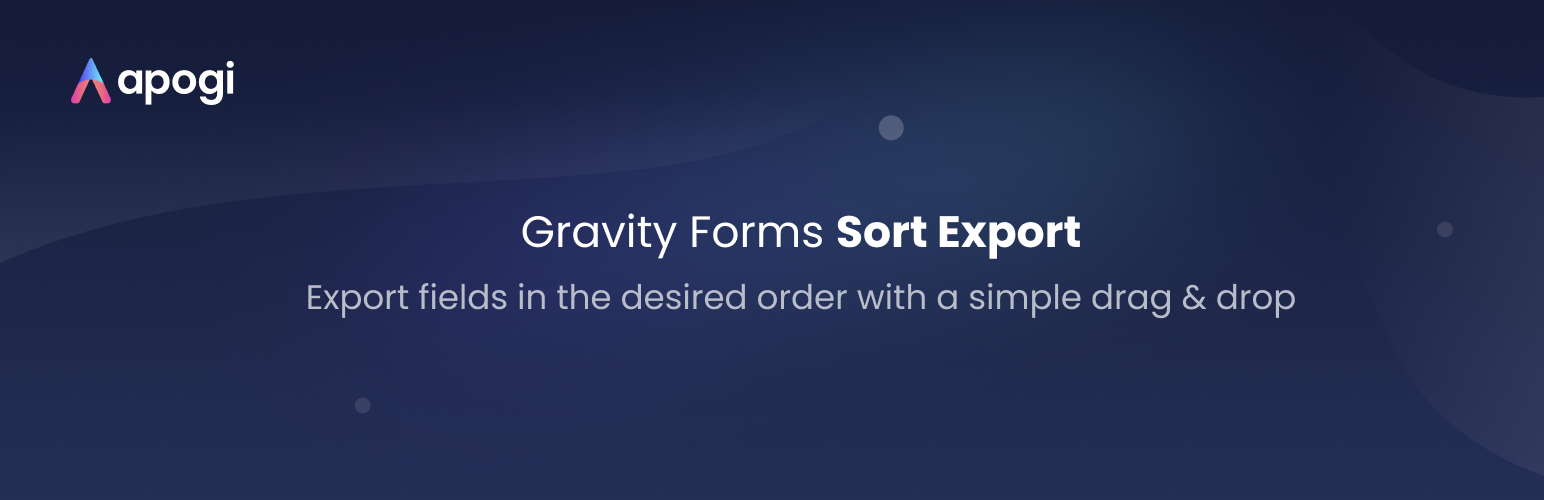
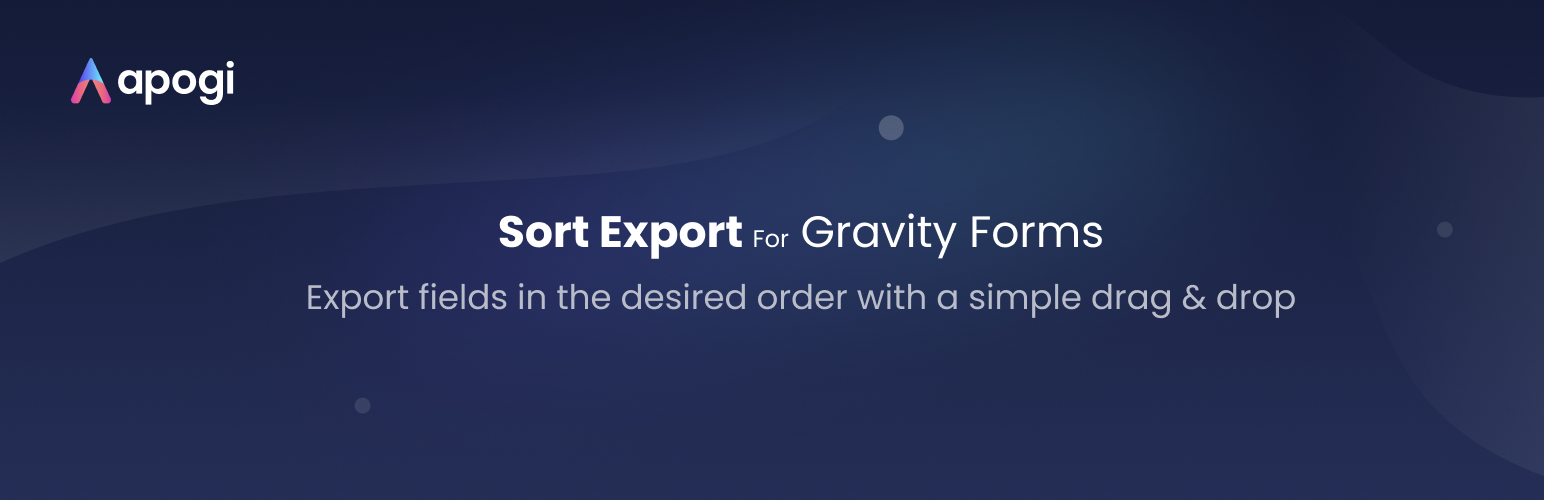
Renamed

Changed region(s): [[0.3109, 0.42, 0.715, 0.51]]

diff --git a/gf-sort-export.php b/gf-sort-export.php
@@ -1,6 +1,6 @@
 <?php
 /**
- * Plugin Name:     Gravity Forms Sort Export
+ * Plugin Name:     Sort Export for Gravity Forms
  * Description:     Control the order of the fields during export
  * Author:          Apogi
  * Author URI:      https://paypal.me/doekenorg
